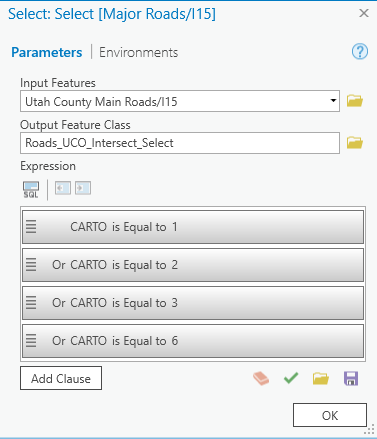
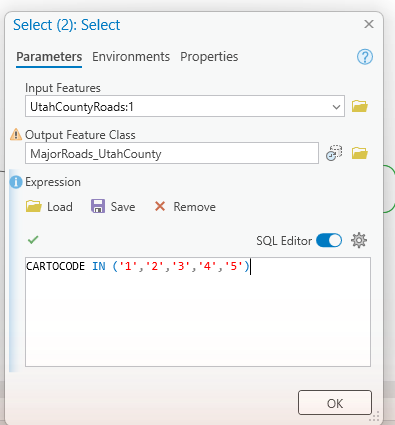
Draft Lab 1: re-capture five figures in Pro 3.7 and fix the Step 10 procedure
Re-ran the lab against the packaged extract in ArcGIS Pro 3.7.1 and replaced the
figures that were factually wrong, plus corrected a procedure I had got wrong.

Step 10 was wrong. I had written "right-click the Distance row in the tool dialog
and choose Parameter". Right-clicking a row in a tool dialog opens nothing at all -
confirmed by screen capture, so it is not a rendering artifact. The actual route is
two moves: right-click the Buffer tool on the CANVAS, choose Create Variable > From
Parameter > Distance [value or field], then right-click the new variable oval and
choose Parameter. Both menus carry keyboard shortcuts (Ctrl+D for Add To Display,
Ctrl+P for Parameter), which are easier to instruct than a right-click path.

Also worth recording: ModelBuilder context menus DO work. Earlier in this project I
concluded they "did not render" and flagged Step 10 as unverifiable. That was wrong -
the computer-use screenshot path filters them out, while a direct screen capture
shows them fine. The step is now verified rather than flagged.

Figures re-captured in Pro 3.7 against the extract students download:
  - lab01-cartocode-domain-table.png (new, Figure 5a) - the attribute table showing
    CARTOCODE as descriptions rather than numbers, which is the whole argument for
    shipping a geodatabase instead of a shapefile
  - lab01-select-major-roads-dialog.png (Figure 5b) - now shows the real CARTOCODE
    IN ('1','2','3','4','5') expression instead of the dead CARTO field
[…]

diff --git a/docs/assignments/lab-01/draft.md b/docs/assignments/lab-01/draft.md
@@ -45,8 +45,14 @@ Fall 2026 · Dr. Dan Ames
 > - **Steps 0, 3, 6, 7, 8, 9** — expected values to check results against.
 >
 > Several boxes reference an **ArcGIS Tips and Reminders** page, also unlinked, at
-> [`../../arcgis-tips.md`](../../arcgis-tips.md). The figures are unchanged and still show the old
-> 2010-era data and dialog labels; re-shooting them is the obvious next job.
+> [`../../arcgis-tips.md`](../../arcgis-tips.md).
+>
+> **Figures.** Four have been re-captured in ArcGIS Pro 3.7 against the extract students actually
+> download — the `CARTOCODE` attribute table in Step 5, the Select dialog in Figure 5b, the Buffer
+> dialog in Figure 6, and the two new parameter menus at Figures 10 and 11. **The rest are still the
+> original 2010-era captures** and show `CensusBlocks2010`, older dialog labels, and in Figure 2 a
+> roads Intersect this version of the lab no longer asks for. Where a figure and the text disagree,
+> the text is correct.
 
 ## Background
 
@@ -314,6 +320,10 @@ Open the roads attribute table first and find the field that classifies road typ
 > This is a real and common problem: **the file format you choose can silently throw away part of
 > your data.** It is one reason professionals prefer geodatabases to shapefiles.
 
+![The ArcGIS Pro attribute table for UtahCountyRoads. The CARTOCODE column shows full descriptions rather than bare numbers — rows read "11 Other Local, Neighborhood, Rural Roads", "3 US Highways, Unseparated" and "10 Other Federal Aid Eligible Local Roads" — alongside FULLNAME values such as PROVO CANYON RD and MAIN ST. The status bar reads "0 of 38,817 selected".](images/lab01-cartocode-domain-table.png)
+
+**Figure 5a.** The attribute table with the domain attached. Because the extract is a geodatabase, `CARTOCODE` reads as descriptions, not numbers.
+
 For reference, the full domain is:
 
 | Code | Meaning | Code | Meaning |
@@ -340,24 +350,23 @@ In the extract we gave you that keeps **1,532** of Utah County's 38,817 road seg
 > **Do not copy the road expression from an older version of this handout.** Earlier versions used
 > the equivalent of codes 1, 2, 3 and 6. That selects *institutional* roads (code 6) while leaving
 > out codes 4 and 5, the major state highways. It returns **645** segments instead of 1,532 —
-> it misses roughly sixty percent of the real network. The screenshot in Figure 5 below still
-> shows that old expression against a field named `CARTO` that no longer exists.
+> it misses roughly sixty percent of the real network. If you find `CARTO = 1 OR CARTO = 2 ...`
+> in an older copy of this handout, that field does not even exist in the current data.
 
 > [!NOTE]
 > Code 2 (US Highways, Separated) does not occur anywhere in Utah County. A code being absent from
 > your county is not an error. Leaving it in the expression costs nothing and keeps the model
 > honest about what it is asking for.
 
-![The ArcGIS Pro Select tool dialog for major roads, showing four OR'd clauses on an older CARTO field. This screenshot is illustrative only; derive the field and values from your own data.](images/lab01-select-major-roads-dialog.png)
+![The ArcGIS Pro Select tool dialog in ModelBuilder: Input Features UtahCountyRoads, Output Feature Class MajorRoads_UtahCounty, the SQL Editor toggle switched on, and the expression CARTOCODE IN ('1','2','3','4','5') with a green check mark showing it is valid.](images/lab01-select-major-roads-dialog.png)
 
 ![ModelBuilder detail: the county main-roads layer feeds a "Select [Major Roads/I15]" tool, producing the major-roads output layer.](images/lab01-select-major-roads-model.png)
 
-**Figure 5.** The Select tool window and ModelBuilder example for major roads.
+**Figure 5b.** The Select tool window and ModelBuilder example for major roads.
 
-> [!IMPORTANT]
-> The screenshot above shows `CARTO is Equal to 1 / 2 / 3 / 6` against a field that no longer
-> exists. Use it only for the shape of the dialog. The field and the expression to use are in the
-> step text above.
+> [!NOTE]
+> Figure 5b was captured in ArcGIS Pro 3.7 against the extract you downloaded, so the dialog, the
+> field name and the expression all match what you should see.
 
 <!-- Stale: CARTO = 1,2,3,6 screenshot retained deliberately; the step text no longer asserts that expression. -->
 
@@ -372,7 +381,7 @@ Use the **Buffer** tool to create a 2-mile buffer around the major roads you sel
 > one: wrong by a factor of 3,219, with no error and a perfectly normal green check mark.
 >
 > Set the unit yourself. There is no plain "Miles" option in ArcGIS Pro 3.7 — choose
-> **Statute Miles**. (The figure below says "2 Miles" because it was captured from an older version.)
+> **Statute Miles** — which is what Figure 6 below shows.
 
 Also set **Dissolve Type** to *Dissolve all output features into a single feature*. The default, *No Dissolve*, leaves you with one buffer polygon per road segment — 1,543 overlapping polygons in Utah County — which turns the Step 7 Intersect into a mess of overlapping slivers. Dissolved, you get one clean zone.
 
@@ -381,7 +390,7 @@ Also set **Dissolve Type** to *Dissolve all output features into a single featur
 > single feature covering roughly **976 square miles**, a little under half the county. If your
 > buffer has an area near zero, the unit box was still set to meters.
 
-![The ArcGIS Pro Buffer tool dialog: Distance 2 Miles, Side Type Full, End Type Round, Method Planar, Dissolve Type "Dissolve all output features into a single feature".](images/lab01-buffer-roads-dialog.png)
+![The ArcGIS Pro Buffer tool dialog: Input Features MajorRoads_UtahCounty, Output MajorRoads_2mi_Buffer, Distance 2 with the unit set to Statute Miles, Side Type Full, End Type Round, Method Planar, and Dissolve Type set to "Dissolve all output features into a single feature".](images/lab01-buffer-roads-dialog.png)
 
 ![ModelBuilder detail: the major-roads layer feeds a Buffer tool, producing a "MajorRoads_I15 2 Mile Buffer" output layer.](images/lab01-buffer-roads-model.png)
 
@@ -443,9 +452,27 @@ Use the Erase tool to erase the buffered Walmart layer from the intersected popu
 
 ### Step 10
 
-Right-click the last output layer you created and check **Add To Display**, so the result is added to your map automatically every time the model runs.
+Right-click the last output oval in your model and choose **Add To Display** (or select it and press `Ctrl+D`). The result is now added to your map automatically every time the model runs.
 
-Now do something similar to the two buffer distances, but check **Parameter** instead. Open each Buffer tool in the model, right-click the **Distance** row, and choose Parameter. A small `P` appears beside it on the canvas. When you run the model from the Catalog pane you now get a dialog with those two numbers in it.
+Now expose the two buffer distances so you can change them without opening the tools. A distance typed into a tool is not a variable yet, so this takes two moves:
+
+1. **Right-click the Buffer tool** on the canvas and choose **Create Variable ▸ From Parameter ▸ Distance [value or field]**. A new blue oval appears, connected to the tool. (see Figure 10)
+2. **Right-click that new oval** and choose **Parameter** — or select it and press `Ctrl+P`. A small `P` appears beside it.
+
+Repeat for the second Buffer. When you now run the model from the Catalog pane, you get a dialog with those two distances in it.
+
+![The ModelBuilder canvas context menu on a Buffer tool, opened to Create Variable, then From Parameter, showing the list of that tool's parameters: Distance [value or field], Side Type, End Type, Dissolve Type, Dissolve Field(s), and Method.](images/lab01-create-variable-parameter-menu.png)
+
+**Figure 10.** Right-click the tool ▸ Create Variable ▸ From Parameter ▸ Distance.
+
+![The context menu on the new Distance variable oval, showing Open, Add To Display (Ctrl+D), Parameter (Ctrl+P), Create Label, Rename, Group, Cut, Copy and Select All.](images/lab01-parameter-add-to-display-menu.png)
+
+**Figure 11.** Right-click the variable ▸ Parameter. The same menu carries Add To Display.
+
+> [!NOTE]
+> **Right-clicking the Distance row inside the tool dialog does nothing.** It looks like it ought to
+> work, and older instructions say to do exactly that. It does not open a menu in ArcGIS Pro 3.7 —
+> you have to create the variable from the canvas first, as above.
 
 > [!NOTE]
 > **Why bother — and when this feature is not worth it.** Model parameters are often oversold.
@@ -458,10 +485,6 @@ Now do something similar to the two buffer distances, but check **Parameter** in
 > numbers, click Run. Without them it is: open two tools, edit each one by hand, remember which you
 > already changed, and hope. That is the whole reason we are doing it here — not because parameters
 > are good practice in the abstract.
-
-![The ModelBuilder right-click context menu on the Walmart_Target output oval, with Parameter and Add To Display both check-marked; a "P" marks the oval as a model parameter.](images/lab01-parameter-add-to-display-menu.png)
-
-**Figure 10.** Parameter and Add To Display options.
 
 ### Step 11
 
